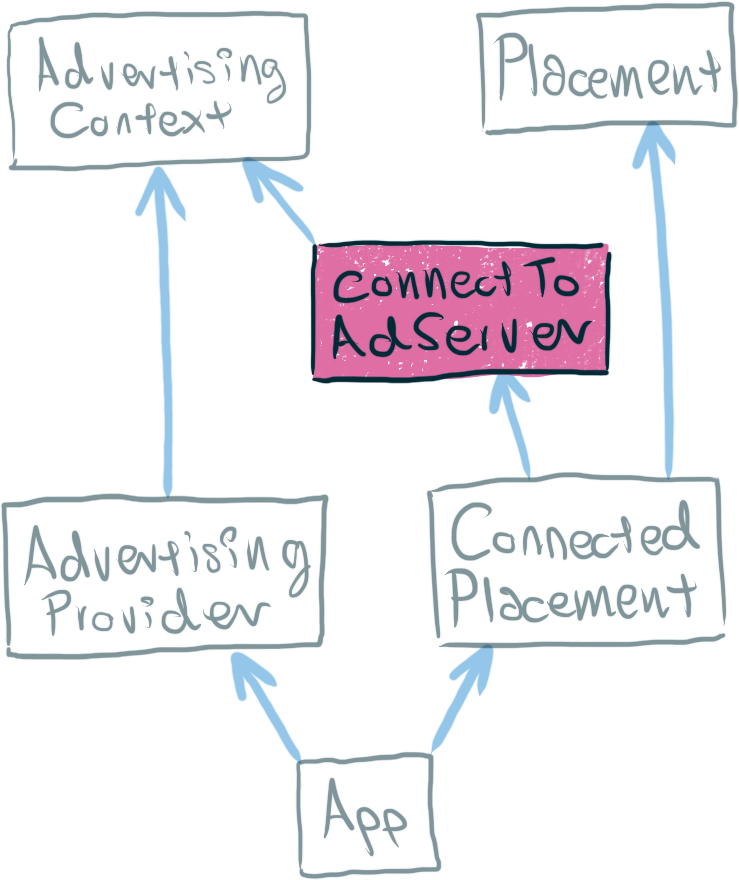
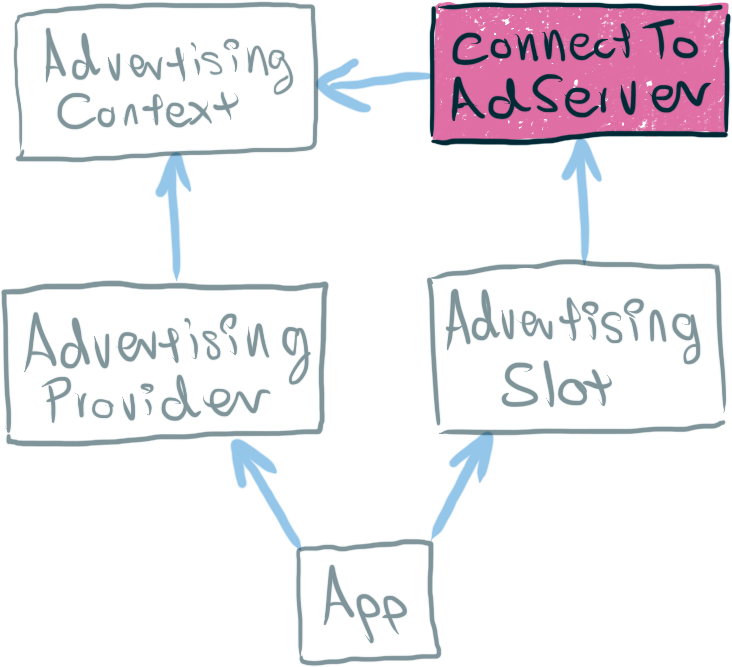
removed some slides to make presentation shorter

diff --git a/index.html b/index.html
@@ -33,127 +33,6 @@
             </small>
         </section>
         <section>
-            <h3>Google Publisher Tags + Prebid… Ugh!</h3>
-            <pre class="stretch small"><code data-trim style="height: 150vh" class="html">
-<script>
-    var PREBID_TIMEOUT = 700;
-
-    var adUnits = [{
-        code: 'div-gpt-ad-1460505748561-0',
-        mediaTypes: {
-            banner: {
-                sizes: [[300, 250], [300, 600]]
-            }
-        },
-        bids: [{
-            bidder: 'appnexus',
-            params: {
-                placementId: '10433394'
-            }
-        }]
-    }, {
-        code: 'div-gpt-ad-1460505661639-0',
-        mediaTypes: {
-            banner: {
-                sizes: [[728, 90], [970, 90]]
-            }
-        },
-        bids: [{
-            bidder: 'appnexus',
-            params: {
-                placementId: '10433394'
-            }
-        }]
-    }];
-
-    var pbjs = pbjs || {};
-    pbjs.que = pbjs.que || [];
-
-</script>
-<script type="text/javascript" src="//acdn.adnxs.com/prebid/not-for-prod/1/prebid.js" async></script>
-<script>
-    var googletag = googletag || {};
-    googletag.cmd = googletag.cmd || [];
-    googletag.cmd.push(function () {
-        googletag.pubads().disableInitialLoad();
-    });
-
-    pbjs.que.push(function () {
-        pbjs.addAdUnits(adUnits);
-        pbjs.requestBids({
-            bidsBackHandler: sendAdserverRequest
-        });
-    });
-
-    function sendAdserverRequest() {
-        if (pbjs.adserverRequestSent) {
-            return;
-        }
-        pbjs.adserverRequestSent = true;
-        googletag.cmd.push(function () {
-            pbjs.que.push(function () {
-                pbjs.setTargetingForGPTAsync();
-                googletag.pubads().refresh();
-            });
-        });
-    }
-
-    setTimeout(function () {
-        sendAdserverRequest();
-    }, PREBID_TIMEOUT);
-
-</script>
-<script>
-    (function () {
-        var gads = document.createElement('script');
-        gads.async = true;
-        gads.type = 'text/javascript';
-        var useSSL = 'https:' == document.location.protocol;
-        gads.src = (useSSL ? 'https:' : 'http:') +
-            '//www.googletagservices.com/tag/js/gpt.js';
-        var node = document.getElementsByTagName('script')[0];
-        node.parentNode.insertBefore(gads, node);
-    })();
-</script>
-<script>
-    googletag.cmd.push(function () {
-        googletag.defineSlot(
-            '/19968336/header-bid-tag-0', [[300, 250], [300, 600]], 'div-gpt-ad-1460505748561-0'
-        ).addService(googletag.pubads());
-
-        googletag.defineSlot(
-            '/19968336/header-bid-tag1', [[728, 90], [970, 90]], 'div-gpt-ad-1460505661639-0'
-        ).addService(googletag.pubads());
-
-        googletag.pubads().enableSingleRequest();
-        googletag.enableServices();
-    });
-</script>
-<h5>Div-1</h5>
-<div id='div-gpt-ad-1460505748561-0'>
-    <script type='text/javascript'>
-        googletag.cmd.push(function () {
-            googletag.display('div-gpt-ad-1460505748561-0');
-        });
-    </script>
-</div>
-
-<h5>Div-2</h5>
-<div id='div-gpt-ad-1460505661639-0'>
-    <script type='text/javascript'>
-        googletag.cmd.push(function () {
-            googletag.display('div-gpt-ad-1460505661639-0');
-        });
-    </script>
-</div>
-            </code></pre>
-            <aside class="notes">
-                <ul>
-                    <li>Mention problems with single page applications</li>
-                </ul>
-            </aside>
-        </section>
-        <section>
             <video controls class="stretch">
                 <source data-src="media/adding-provider-and-slots.mov" type="video/mp4">
             </video>
@@ -194,31 +73,6 @@ export default createContext(() => {});
         <section>
             <div class="columns-container">
                 <div class="column-two-thirds">
-                    <h4 class="nocaps">Placement.js</h4>
-                    <pre><code data-trim class="js">
-import React, { Component } from 'react';
-
-export default class extends Component {
-  componentDidMount() {
-    const { activate, id } = this.props;
-    activate(id);
-  }
-
-  render() {
-    return &lt;div id={this.props.id} /&gt;
-  }
-}
-            </code></pre>
-                    <p class="very-small">Code example online: <a href="http://bit.ly/richquick3">http://bit.ly/richquick3</a></p>
-                </div>
-                <img class="plain column-one-third" data-src="media/code-tree-placement.png">
-            </div>
-            <aside class="notes">
-            </aside>
-        </section>
-        <section>
-            <div class="columns-container">
-                <div class="column-two-thirds">
                     <h4 class="nocaps">connectToAdServer.js</h4>
                     <pre class="small"><code data-trim class="jsx">
 import React from 'react';
@@ -242,17 +96,27 @@ export default Component => props => (
         <section>
             <div class="columns-container">
                 <div class="column-two-thirds">
-                    <h4 class="nocaps">ConnectedPlacement.js</h4>
+                    <h4 class="nocaps">AdvertisingSlot.js</h4>
                     <pre class="small"><code data-trim class="jsx">
+import React, { Component } from 'react';
 import connectToAdServer from './connectToAdServer';
-import Placement from './Placement';
 
-export default connectToAdServer(Placement);
+class AdvertisingSlot extends Component {
+  componentDidMount() {
+    const { activate, id } = this.props;
+    activate(id);
+  }
 
+  render() {
+    return &lt;div id={this.props.id} /&gt;
+  }
+}
+
+export default connectToAdServer(AdvertisingSlot);
                     </code></pre>
-                    <p class="very-small">Code example online: <a href="http://bit.ly/richquick5">http://bit.ly/richquick5</a></p>
+                    <p class="very-small">Code example online: <a href="http://bit.ly/richquick8">http://bit.ly/richquick8</a></p>
                 </div>
-                <img class="plain column-one-third" data-src="media/code-tree-connected-placement.png">
+                <img class="plain column-one-third" data-src="media/code-tree-advertising-slot.png">
             </div>
             <aside class="notes">
             </aside>
@@ -291,29 +155,6 @@ export default class extends Component {
                 <ul>
                     <li>image tag is just an example, in reality much more complicated</li>
                 </ul>
-            </aside>
-        </section>
-        <section>
-            <div class="columns-container">
-                <div class="column-two-thirds">
-                    <h4 class="nocaps">App.js</h4>
-                    <pre class="small"><code data-trim class="jsx">
-import React from 'react';
-import AdvertisingProvider from './AdvertisingProvider';
-import ConnectedPlacement from './ConnectedPlacement';
-
-export default () => (
-  &lt;AdvertisingProvider&gt;
-    &lt;ConnectedPlacement id="foo" /&gt;
-  &lt;/AdvertisingProvider&gt;
-);
-
-                    </code></pre>
-                    <p class="very-small">Code example online: <a href="http://bit.ly/richquick7">http://bit.ly/richquick7</a></p>
-                </div>
-                <img class="plain column-one-third" data-src="media/code-tree-app.png">
-            </div>
-            <aside class="notes">
             </aside>
         </section>
         <section>
